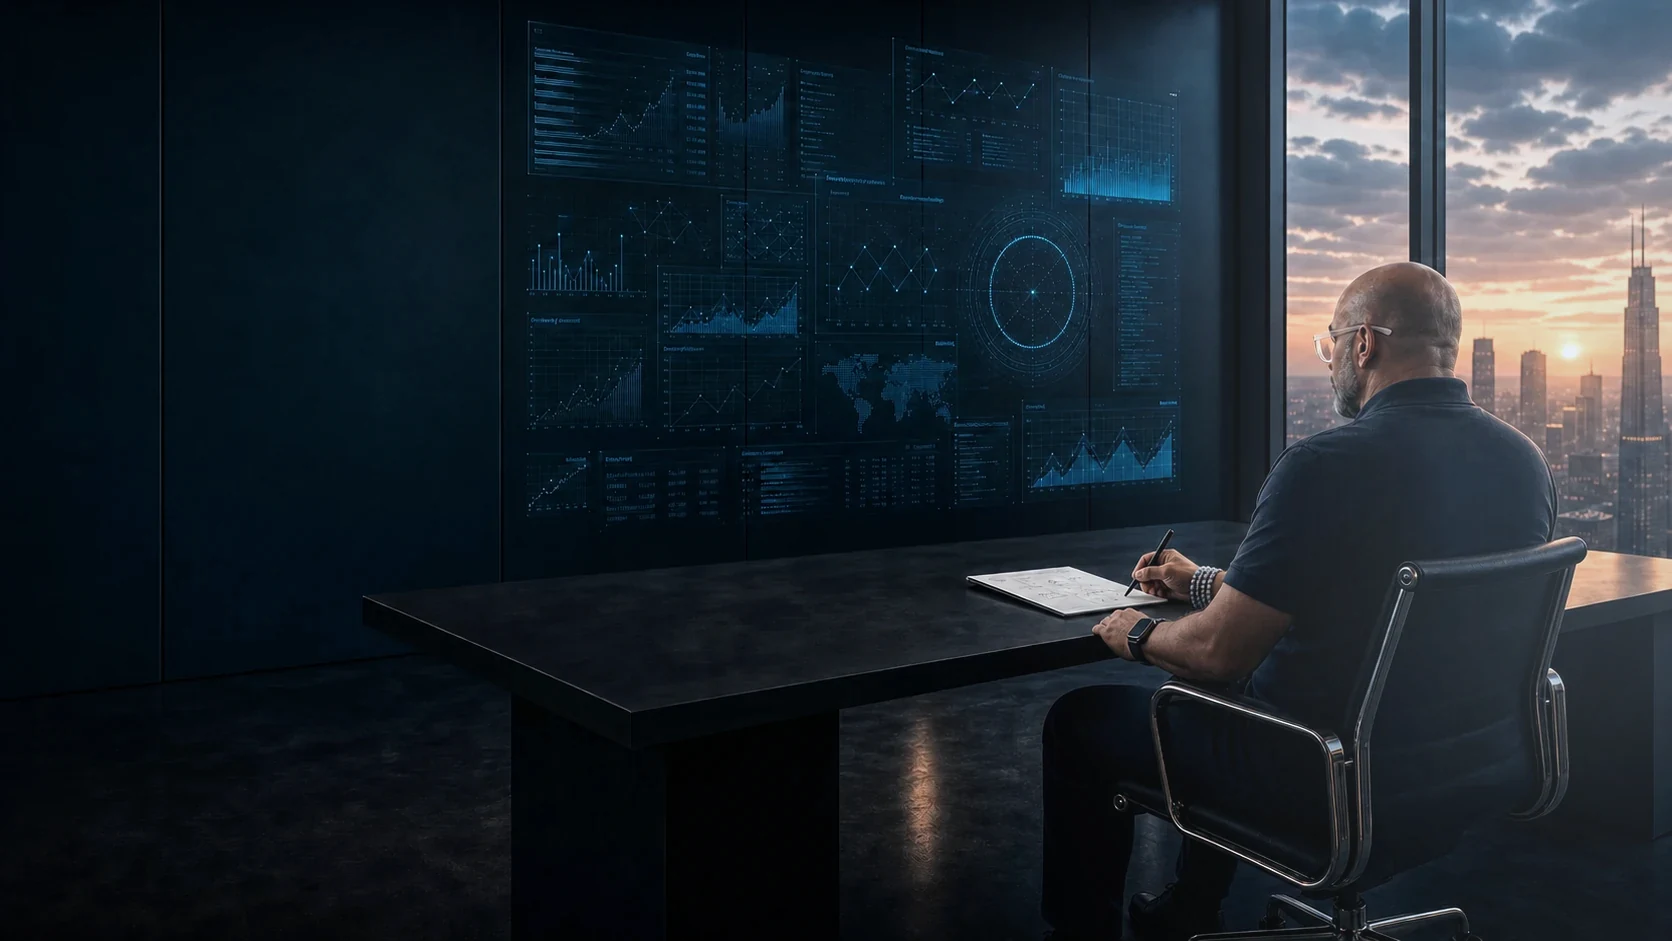
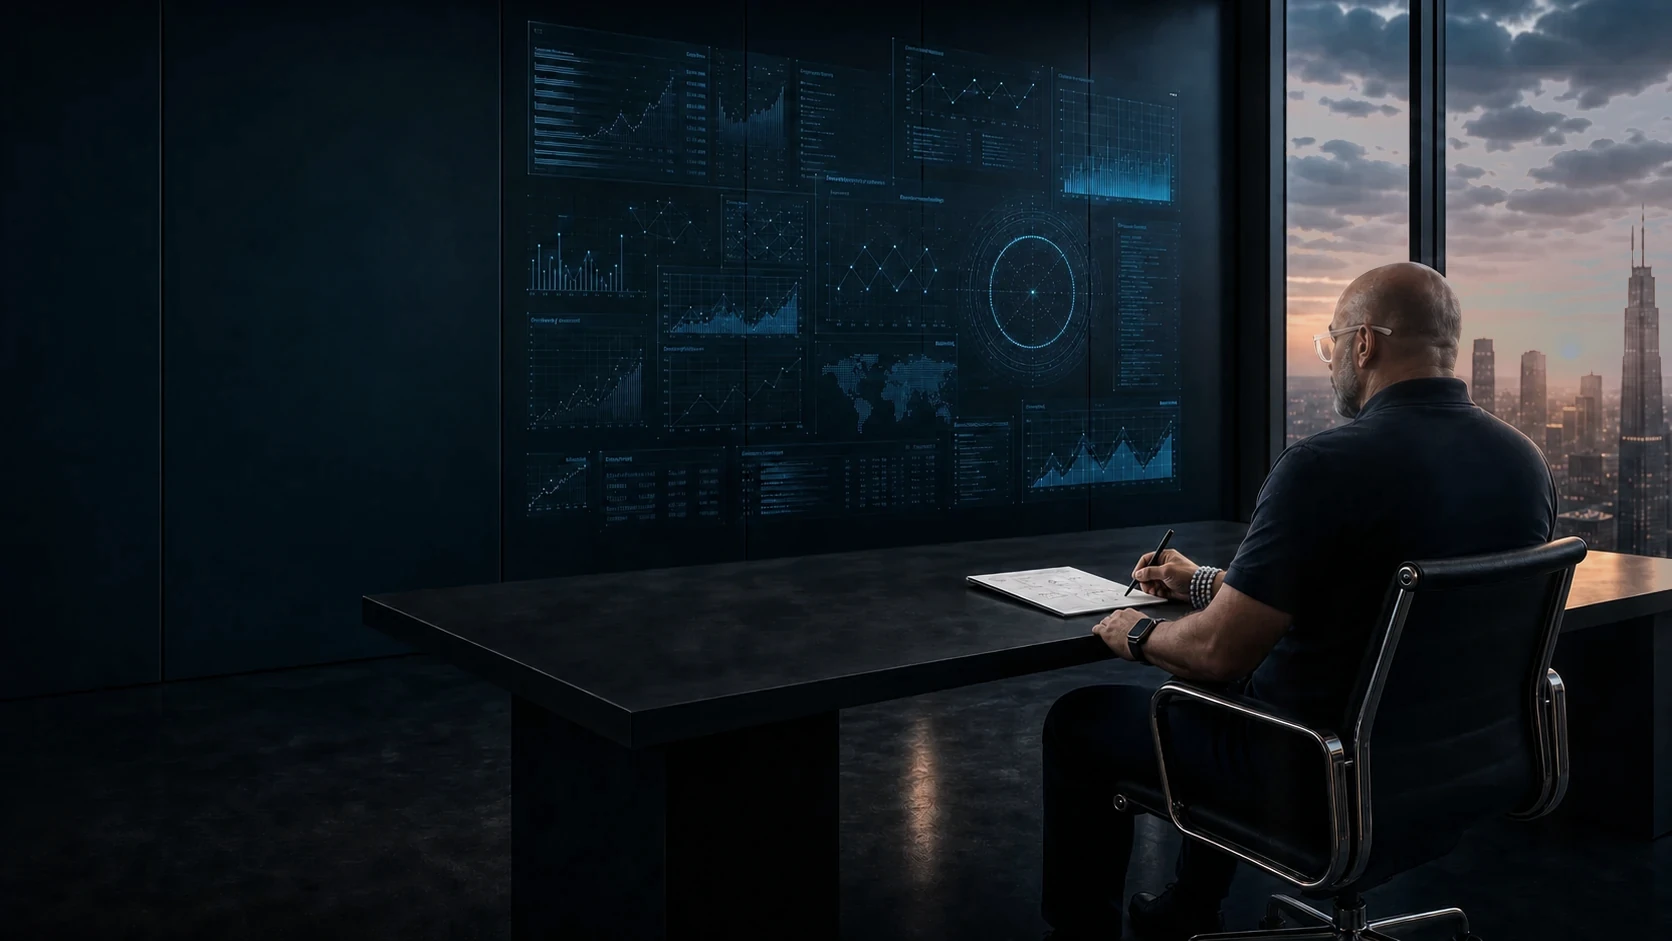
Fix daytime hero background

Changed region(s): [[0.7153, 0.0, 1.0, 0.9862]]

diff --git a/index.html b/index.html
@@ -6,15 +6,15 @@
 <meta charset="utf-8"/>
 <meta content="width=device-width, initial-scale=1" name="viewport"/>
 <title>Rafal Wilk Digital Workshop ©</title>
-<link rel="preload" as="image" fetchpriority="high" href="assets/images/private-command-center-hero-sunset-phase.webp?v=20260712-bgphase-1"/>
-<link rel="prefetch" as="image" href="assets/images/private-command-center-hero-morning-phase.webp?v=20260712-bgphase-1"/>
-<link rel="prefetch" as="image" href="assets/images/private-command-center-hero-day-phase.webp?v=20260712-bgphase-1"/>
-<link rel="prefetch" as="image" href="assets/images/private-command-center-hero-night-phase.webp?v=20260712-bgphase-1"/>
-<link rel="preload" as="style" href="assets/css/platform-v2.css?v=20260712-bgphase-1"/>
+<link rel="preload" as="image" fetchpriority="high" href="assets/images/private-command-center-hero-day-phase.webp?v=20260712-bgphase-2"/>
+<link rel="prefetch" as="image" href="assets/images/private-command-center-hero-morning-phase.webp?v=20260712-bgphase-2"/>
+<link rel="prefetch" as="image" href="assets/images/private-command-center-hero-sunset-phase.webp?v=20260712-bgphase-2"/>
+<link rel="prefetch" as="image" href="assets/images/private-command-center-hero-night-phase.webp?v=20260712-bgphase-2"/>
+<link rel="preload" as="style" href="assets/css/platform-v2.css?v=20260712-bgphase-2"/>
 <style id="rw-critical-home-boot">
   html{background:#05080d}
   body:not(.rw-v2-ready):not(.app-open){
-    background:#05080d url("assets/images/private-command-center-hero-sunset-phase.webp?v=20260712-bgphase-1") center/cover fixed no-repeat!important;
+    background:#05080d url("assets/images/private-command-center-hero-day-phase.webp?v=20260712-bgphase-2") center/cover fixed no-repeat!important;
   }
   body:not(.rw-v2-ready):not(.app-open)>*:not(script):not(style):not(link){
     visibility:hidden!important;
@@ -6590,6 +6590,6 @@ ${moduleBrain ? [summarizeBrainList(moduleBrain.rules,8),summarizeBrainList(modu
   setTimeout(install, 2200);
 })();
 </script>
-<link rel="stylesheet" href="assets/css/platform-v2.css?v=20260712-bgphase-1">
+<link rel="stylesheet" href="assets/css/platform-v2.css?v=20260712-bgphase-2">
 <script src="assets/js/contact-config.js?v=[phone redacted]"></script>
-<script src="assets/js/platform-v2.js?v=20260712-bgphase-1"></script>
+<script src="assets/js/platform-v2.js?v=20260712-bgphase-2"></script>

diff --git a/assets/css/platform-v2.css b/assets/css/platform-v2.css
@@ -6838,23 +6838,23 @@ body.rw-v2-ready .rw-v2-window-reflection{
 
 /* Premium time-of-day backgrounds: switch the real scene, keep CSS as subtle atmosphere only. */
 body.rw-v2-ready{
-  --rw-home-bg:url("../images/private-command-center-hero-sunset-phase.webp?v=20260712-bgphase-1");
+  --rw-home-bg:url("../images/private-command-center-hero-day-phase.webp?v=20260712-bgphase-2");
 }
 
 body.rw-v2-ready.rw-v2-phase-dawn{
-  --rw-home-bg:url("../images/private-command-center-hero-morning-phase.webp?v=20260712-bgphase-1");
+  --rw-home-bg:url("../images/private-command-center-hero-morning-phase.webp?v=20260712-bgphase-2");
 }
 
 body.rw-v2-ready.rw-v2-phase-day{
-  --rw-home-bg:url("../images/private-command-center-hero-day-phase.webp?v=20260712-bgphase-1");
+  --rw-home-bg:url("../images/private-command-center-hero-day-phase.webp?v=20260712-bgphase-2");
 }
 
 body.rw-v2-ready.rw-v2-phase-sunset{
-  --rw-home-bg:url("../images/private-command-center-hero-sunset-phase.webp?v=20260712-bgphase-1");
+  --rw-home-bg:url("../images/private-command-center-hero-sunset-phase.webp?v=20260712-bgphase-2");
 }
 
 body.rw-v2-ready.rw-v2-phase-night{
-  --rw-home-bg:url("../images/private-command-center-hero-night-phase.webp?v=20260712-bgphase-1");
+  --rw-home-bg:url("../images/private-command-center-hero-night-phase.webp?v=20260712-bgphase-2");
 }
 
 body.rw-v2-ready:not(.app-open){